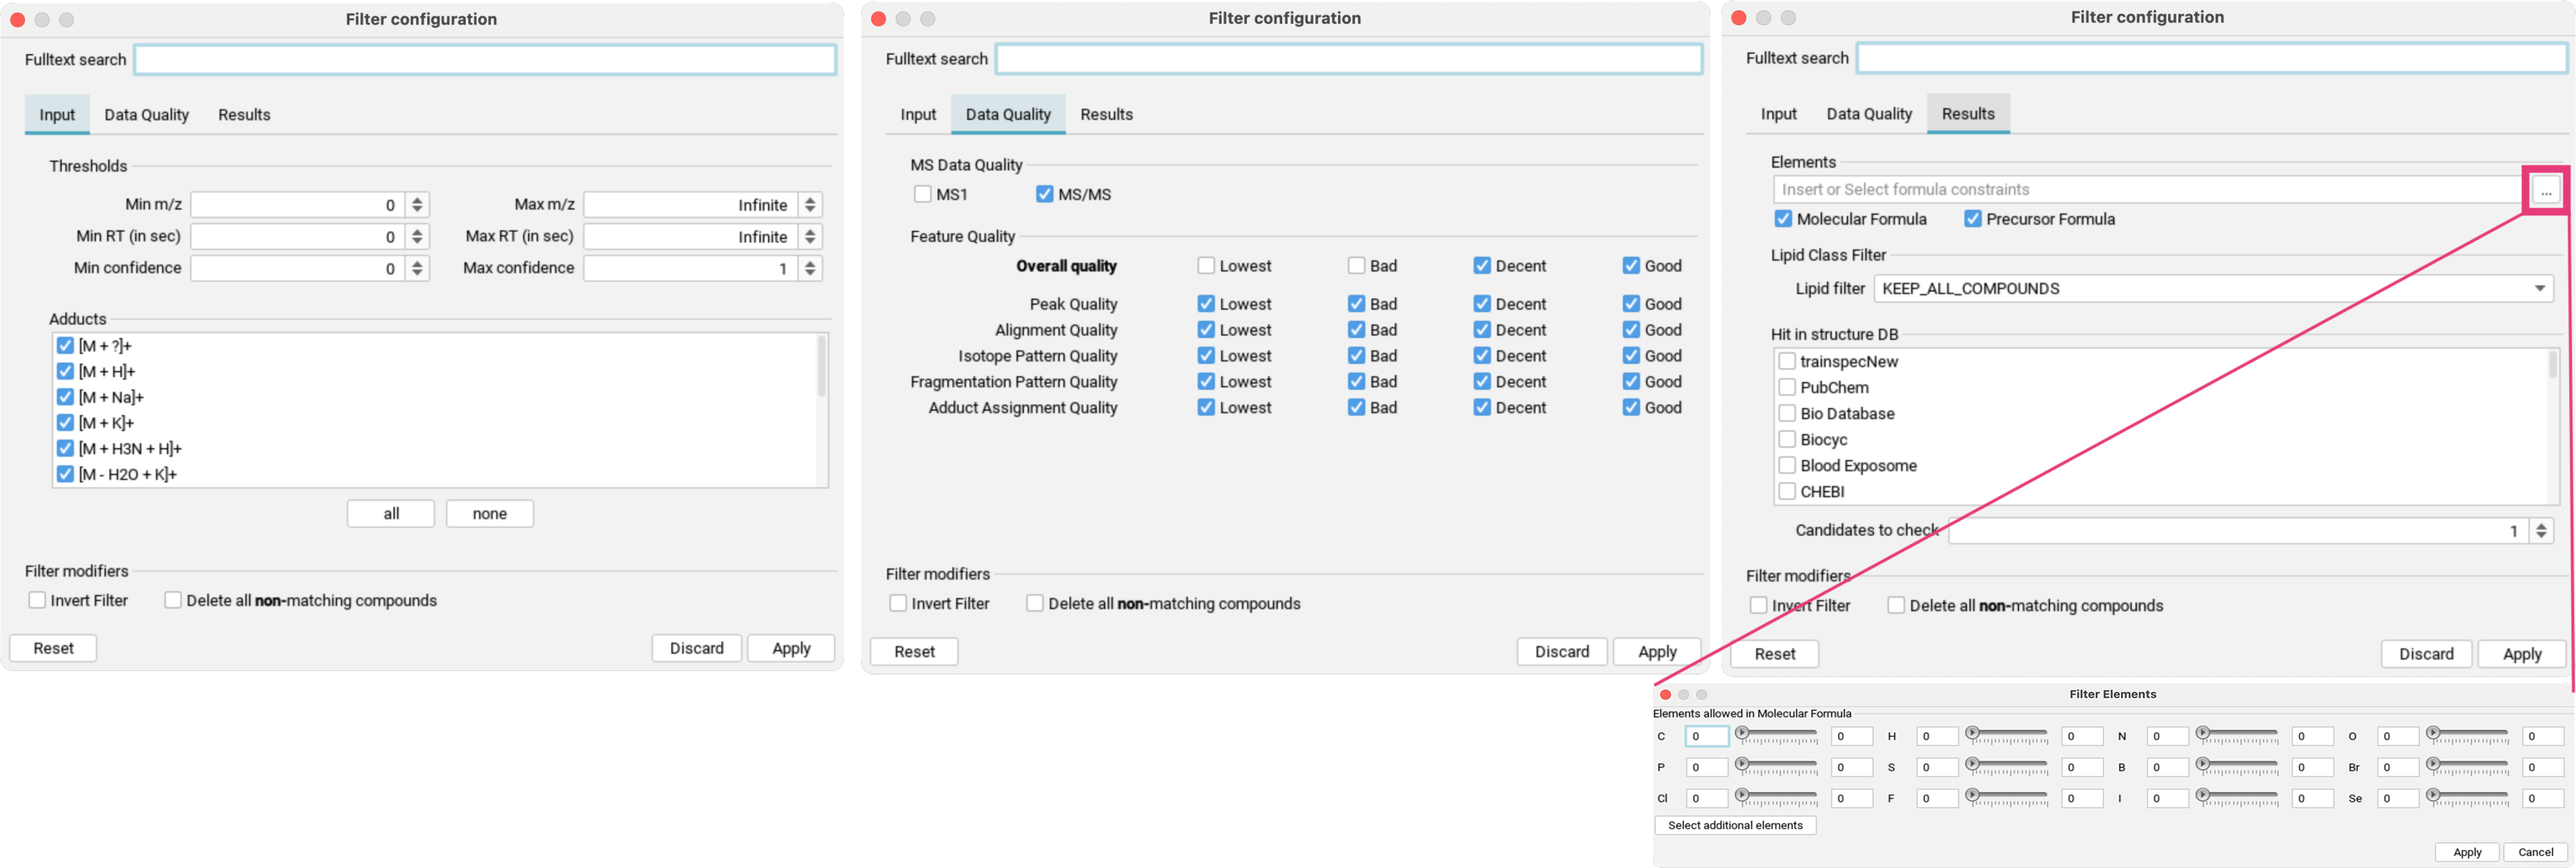
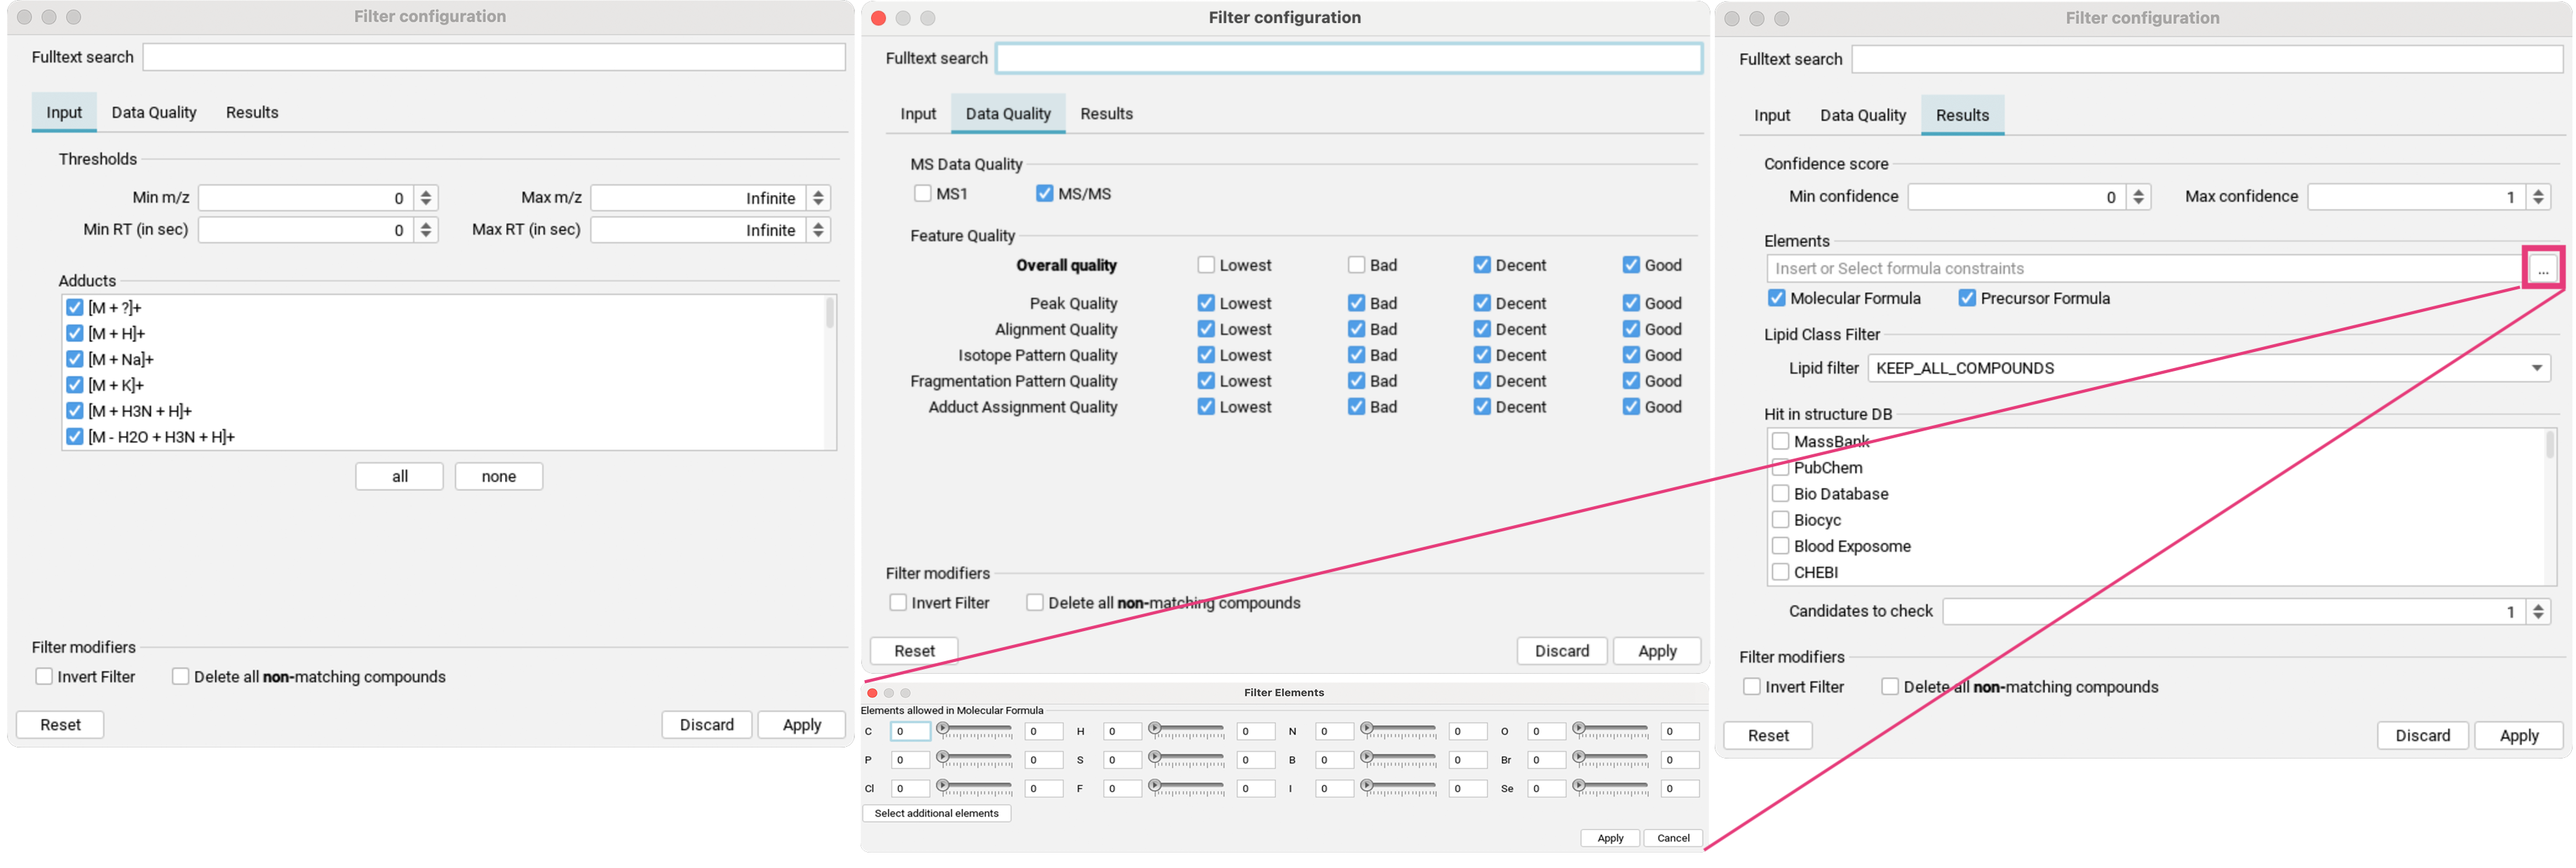
#155 Changelog and all missing updates

diff --git a/docs/_pages/gui.md b/docs/_pages/gui.md
@@ -69,9 +69,9 @@ The feature list can further be refined by clicking the filter button (three dot
 
 <img src="{{ "/assets/images/filter-collage.png" | relative_url }}">
 
-- In the `Input` tab (left), aligned features can be filtered by mass range, retention time range, and confidence score range, as well as by specific detected adducts. 
+- In the `Input` tab (left), aligned features can be filtered by mass range and retention time range, as well as by specific detected adducts. 
 - In the `Data Quality` tab (middle), you can refine the preset quality filter.
-- In the `Results` tab (right), you can filter for specific element constraints in either the neutral molecular formula or precursor formula,
+- In the `Results` tab (right), you can filter for confidence score range, specific element constraints in either the neutral molecular formula or precursor formula,
  as well as by detected lipid classes. If structure database results are available, you can filter for hits in specific structure databases.  `Candidates to check` allows you to specify the number of top candidates to consider.
 
 For all filters, you can also choose to invert the filter, and whether you want to delete all **non**-matching compounds.
@@ -83,7 +83,7 @@ top center of the GUI ribbon.
 Starting with version 6.0, SIRIUS supports the import of spectral libraries. 
 The supported import formats for spectral
 data are .ms, .mgf, .msp, .mat, .txt (MassBank), .mb, .json (GNPS, MoNA). Spectra must be annotated with a structure and must be centroided.
-Custom structures can be used in [structure database search](#CSIFingerID-structure). Imported spectra will be used for [spectral library matching]({{ "/methods-background/#spectral-library-search" | relative_url }}).
+Custom structures can be used in [structure database search](#CSIFingerID-structure). All imported spectra will automatically be used for [spectral library matching]({{ "/methods-background/#spectral-library-search" | relative_url }}) during molecular formula annotation. A spectral library is also a molecular structure database and thus can be used for CSI:FingerID structure database search.
 
 {% capture fig_img %}
 ![Foo]({{ "/assets/images/custom-db-loader-collage.png" | relative_url }})
@@ -146,7 +146,9 @@ The compute dialog is divided into five subtools:
 [CSI:FingerID structure database search](#CSIFingerID-structure) <span style="color:#d40f57">**[4]**</span> and 
 [MSNovelist](#generating-de-novo-structure-candidates-with-msnovelist) <span style="color:#d40f57">**[5]**</span>. As of SIRIUS 6, CANOPUS is automatically executed together with the fingerprint prediction. 
 **Subtools can be selected individually or combined, but note that the selection must align with a [valid SIRIUS workflow]({{ "/methods-background/#workflows" | relative_url }}).**
-For example, you cannot search structure databases without predicting fingerprints first. 
+For example, you cannot search structure databases without predicting fingerprints first.
+Subtools are automatically enabled/disabled to match the [workflow principles]({{"/cli/#basic-principles" | relative_url }}).
+
 
 If the `Recompute already computed tasks?` checkbox <span style="color:#d40f57">**[6]**</span> is checked, all previously existing results for the selected features in the current project space will be invalidated and overwritten to execute the newly selected workflow. Additional parameters for specific subtools can be displayed using the `Show advanced settings` button  <span style="color:#d40f57">**[7]**</span>. 
 To easily convert the current workflow selections into a CLI command, use the `Show Command` button <span style="color:#d40f57">**[8]**</span> at the bottom right.
@@ -154,8 +156,9 @@ You can save your computation setup as a preset to reload for the next computati
 
 ### Spectral library matching {#spectral-library-matching}
 
-If imported spectral libraries are available, SIRIUS will automatically perform spectral matching. This process runs in the background without the need for any addiotional parameters. For more information, refer to the [Spectral library matching]({{ "/methods-background/#spectral-library-search" | relative_url }}) section.
+If imported spectral libraries are available, SIRIUS will automatically perform spectral matching. This process runs in the background without the need for any additional parameters. For more information, refer to the [Spectral library matching]({{ "/methods-background/#spectral-library-search" | relative_url }}) section.
 
+Since structure database results depend on the selected molecular formula, SIRIUS ensures that molecular structures with a formula corresponding to a good spectral library hit are considered - even if this molecular formula receives a low score, i.e. molecular structures of well-matching reference spectra are automatically included in the structure database search.
 
 ### Identifying molecular formulas with SIRIUS {#SIRIUS-molecular-formula}
 
@@ -363,7 +366,8 @@ For more details, visit the [CANOPUS release page](https://bio.informatik.uni-je
 CSI:FingerID facilitates the identification of molecular structures by matching 
 predicted molecular fingerprints against database structures. SIRIUS ships with a wide range of [built-in databases]({{ "/methods-background/#CSIFingerID" | relative_url }}). 
 Additionally, users can enhance the search capabilities by adding their own structures as a "custom database" (see [Import of custom structure and spectra databases](#custom-database-import) which can then be searched alongside
-the existing databases.
+the existing databases. If you have imported your own spectral library that should be considered for structure database search, select these libraries (databases) in the structure database search step <span style="color:#d40f57">**[2]**</span>.
+
 
 {% capture fig_img %}
 ![Foo]({{ "/assets/images/compute-dialogue-csifingerid.png" | relative_url }})
@@ -427,7 +431,7 @@ In all views, the top CSI:FingerID hit (as well as "highly similar" compounds in
 
 ### LC-MS view {#lcms-tab}
 
-The `LC-MS` tab is empty when no LC-MS data (`.mzML` or `.mzXML`) was imported, i.e. if the data is imported as `.mgf`, `.ms` or similar file formats, no LC-MS information is available. This is also the case when LC-MS data has been processed with OpenMS or MZMine and then imported to SIRIUS.
+The `LC-MS` tab is hidden when no LC-MS data (`.mzML` or `.mzXML`) was imported, i.e. if the data is imported as `.mgf`, `.ms` or similar file formats, no LC-MS information is available. This is also the case when LC-MS data has been processed with OpenMS or MZMine and then imported to SIRIUS.
 
 {% capture fig_img %}
 ![Foo]({{ "/assets/images/lcms-view-features.png" | relative_url }})
@@ -441,12 +445,12 @@ The `LC-MS` tab is empty when no LC-MS data (`.mzML` or `.mzXML`) was imported, 
 The LC-MS view displays the ion chromatogram of a feature.
 You can choose whether to show the feature alignment or the adduct/isotope assignment <span style="color:#d40f57">**[1]**</span>. Retention times are always given in minutes.
 
-For the feature alignment, the mass traces of all runs aligned for this feature are displayed in different colors <span style="color:#d40f57">**[2]**</span>. The thick black line is the merged mass trace <span style="color:#d40f57">**[3]**</span>. The bold grey box highlights the selected feature <span style="color:#d40f57">**[4]**</span>. Other nearby features are marked with thin grey boxes and features with low quality are marked with dashed boxes <span style="color:#d40f57">**[5]**</span>. You can click on a box to zoom into the feature. A gray dashed line marks the *noise level*; its exact computation may vary from version to version, but it is related to the median intensity of all peaks in the MS scan.
+For the feature alignment, the mass traces of all runs aligned for this feature are displayed in different colors <span style="color:#d40f57">**[2]**</span>. The thick black line is the merged mass trace <span style="color:#d40f57">**[3]**</span>. The bold grey box highlights the selected feature <span style="color:#d40f57">**[4]**</span>. Other nearby features are marked with thin grey boxes and features with low quality are marked with dashed boxes <span style="color:#d40f57">**[5]**</span>. The circles indicate where the MS2 spectrum was measured. You can click on a box to zoom into the feature. A gray dashed line marks the *noise level*; its exact computation may vary from version to version, but it is related to the median intensity of all peaks in the MS scan.
 
 {% capture fig_img %}
 ![Foo]({{ "/assets/images/lcms-view-features-zoom.png" | relative_url }})
 {% endcapture %}
-<figure>
+<figure style="width: 700px;">
   {{ fig_img | markdownify | remove: "<p>" | remove: "</p>" }}
   <figcaption>Zoom into feature alignment.</figcaption>
 </figure>
@@ -550,7 +554,7 @@ in green <span style="color:#d40f57">**[1]**</span>. If you have enabled [approx
 will also be highlighted (see [Expansive search]({{ "/methods-background/#expansive-search" | relative_url }})).
 To filter the candidate list by a specific database (e.g., only compounds from KEGG
 and BioCyc), click the filter button <span style="color:#d40f57">**[2]**</span> in the top left corner. A menu <span style="color:#d40f57">**[3]**</span> will open, displaying
-all available databases. Only candidates from the selected databases will be shown. 
+all available databases. Only candidates from the selected databases will be shown. The databases that have been used for the structure database search are highlighted in blue.
 
 The green and pink squares are a visualization of the CSI:FingerID
 predictions and scoring <span style="color:#d40f57">**[4]**</span>.
@@ -674,6 +678,18 @@ You can navigate through the peaks using left-click or the arrow keys.
 
 ### Library Matches view {#library-matches-tab}
 
+#### Activate spectral library results tab
+SIRIUS automatically searches in your spectral libraries as part of the molecular formula annotation step. 
+Library hits are integrated to the `Structures` tab to seamlessly compare structure database and spectral library hits.
+
+<img src="{{ "/assets/images/activate-spectral-matches-tab.png" | relative_url }}" width="400">
+
+To additionally activate the `Library Matches` tab, go to `Settings` and check `Show "Library Matches" tab`. You will get a warning dialogue explaining the spectral library search settings: 
+- A spectral library is also a molecular structure database. ANY hit in the spectral library can also be found via CSI:FingerID structure database search. 
+- Since structure database results depend on the selected molecular formula, SIRIUS ensures that molecular structures with a formula corresponding to a good spectral library hit are considered - even if this molecular formula receives a low score, i.e. molecular structures of well-matching reference spectra are automatically included in the structure database search.
+- Structure database search is only performed on [databases selected by the user](#CSIFingerID-structure). To ensure that all your spectral libraries are considered by CSI:FingerID, select these libraries (databases) in the structure database search step.
+
+
 {% capture fig_img %}
 ![Foo]({{ "/assets/images/library-matches-view.png" | relative_url }})
 {% endcapture %}
@@ -683,7 +699,7 @@ You can navigate through the peaks using left-click or the arrow keys.
   <figcaption>Spectral library matches tab.</figcaption>
 </figure>
 
-The `Library Matches` tab displays the spectral library matches for the measured query spectrum against a reference library. If you have multiple MS2 spectra (with different collision energies) for a feature, the best matching spectrum is shown by default. The `Similarity Score` and number of `Shared Peaks` in the list is given for this spectrum <span style="color:#d40f57">**[1]**</span>. You can switch to other MS2 spectra to examine their mirror plots as well <span style="color:#d40f57">**[2]**</span>.
+The `Library Matches` tab displays the spectral library matches for the measured query spectrum against a reference library. If you have multiple MS2 spectra (with different collision energies) for a feature, the best matching spectrum is shown by default. The `Similarity Score` and number of `Shared Peaks` in the list is given for this spectrum <span style="color:#d40f57">**[1]**</span>. You can switch to other MS2 spectra to examine their mirror plots as well <span style="color:#d40f57">**[2]**</span>. Additional metadata for the spectral hit is given on the right <span style="color:#d40f57">**[3]**</span>. 
 
 To zoom into the spectrum, hold the right mouse button and drag to select an area, or scroll while hovering over an axis.
 

diff --git a/docs/_pages/changelog.md b/docs/_pages/changelog.md
@@ -4,6 +4,51 @@ title: "Changelog"
 ---
 
 ### SIRIUS 6
+
+#### 6.1.0 (2025-01-04)
+
+- fixed: unavailable `Compute all` button after finishing computations
+- fixed: GUI freezing when submitting many jobs
+- fixed: element-selection-panel not using the currently selected elements as initialization state in molecular formula computation panel
+- fixed: incorrect relative intensities in the MS1 mirror plot in the `Formulas` view
+- fixed: missing peak coloring for some peaks explained by the fragmentation tree
+- fixed: ZODIAC score incorrectly displayed
+- fixed: incorrect column name `median absolute mass error` in `Formulas` view
+- fixed: fragmentation tree viewer resolves molecular formula for adducts incorrectly
+- fixed: missing parent information in the `Compound Classes` view
+- fixed: linked database labels in the `Structures` and `De Novo Structures` views not recognised as links on hover
+- fixed: duplicated DB labels for compound candidates that are part of de novo and structure database search results
+- fixed: `De Novo Structures` view not shown if structure database search was not performed
+- fixed: sorting by columns in `Library Matches` view not working
+- fixed: crashing SDF import if a record cannot be parsed
+- fixed: incorrect intensities in FBMN export
+- fixed: removed non-functioning `Similarity` CLI tool
+
+- improvement: new color scheme with more consistent coloring throughout the whole identification process
+- improvement: option to enable/disable CPK colors for all structures in the settings
+- improvement: consistent top hit highlighting: the best structure database search hit (and its similar structures) is highlighted green in all views.
+- improvement: new welcome page
+- improvement: three decimal places of precursor masses of the aligned features in the feature list (full decimal number displayed in tooltip)
+- improvement: 'Da' renamed to 'm/z' in feature list and fragmenation tree viewer
+- improvement: confidence filter moved to `Results` tab in filter panel
+- improvement: `LC-MS` view is hidden if no LC-MS data was loaded
+- improvement: adding data to LC-MS projects after initial import is prohibited
+- improvement: new ordering of runs in `LC-MS` view
+- improvement: computation setup can be saved and reloaded as a preset for the next computation
+- improvement: automated enabling/disabling of tools in compute dialog to match the [workflow principles]({{"/cli/#basic-principles" | relative_url }})
+- improvement: easy setting of molecular formula to run formula annotation in single-feature computation mode
+- improvement: formula annotation results in the `Formulas` view are sorted by ZODIAC score if performed
+- improvement: normalized SIRIUS score added to summary files
+- improvement: table obtained via the `fingerid-data` endpoint includes information about the fingerprint type
+- improvement: additional column in the `Compound Classes` view showing the level of the class
+- improvement: databases that have been used for the structure database search are highlighted (in the filter menu in the `Structures` view)
+- improvement: `Library Matches` tab needs to be activated in `Settings` to ensure understanding of the library matching workflow
+- improvement: polarity is checked for spectral library search: negative ion mode spectra are only compared to negative; positive to positive
+- improvement: added metadata to spectral library hits in the `Library Matches` view
+- improvement: collision energy sorting in the `Library Matches` view is now number based.
+
+- **Known Issue:** Adduct/isotope assignment view in `LC-MS` tab deactivated for a short time until the next release.
+
 #### 6.0.6 (2024-09-28)
 
 - fixed: When importing large mzml/mzxml runs, the feature list filter is not refreshed properly after import.

diff --git a/docs/_pages/cli-standalone.md b/docs/_pages/cli-standalone.md
@@ -53,6 +53,9 @@ The `write-summaries` tool allows you to export [summary files]({{"/io/#summary-
 
 
 ## Similarity tool {#similarity-tool}
+
+<span style="color:#d40f57">**This tool is not part of the current SIRIUS version.**</span>
+
 The `similarity` tool allows you to compute different similarity measures between compounds.
 It accepts a SIRIUS project-space (or any input format that SIRIUS can convert into a project, such as `.ms`, `.mgf` or `.cef`) 
 as input using the `sirius -i <INPUT>` command.
